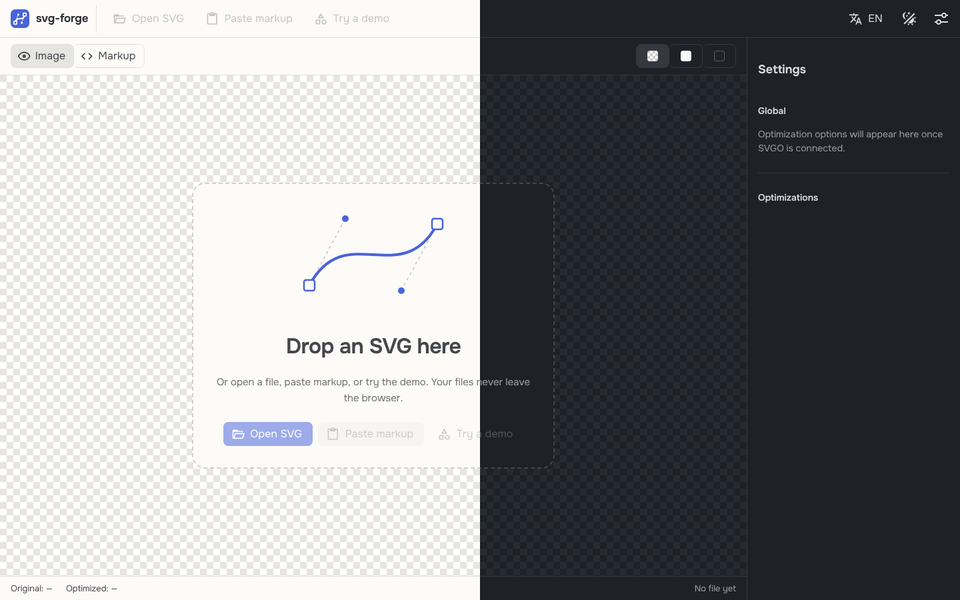
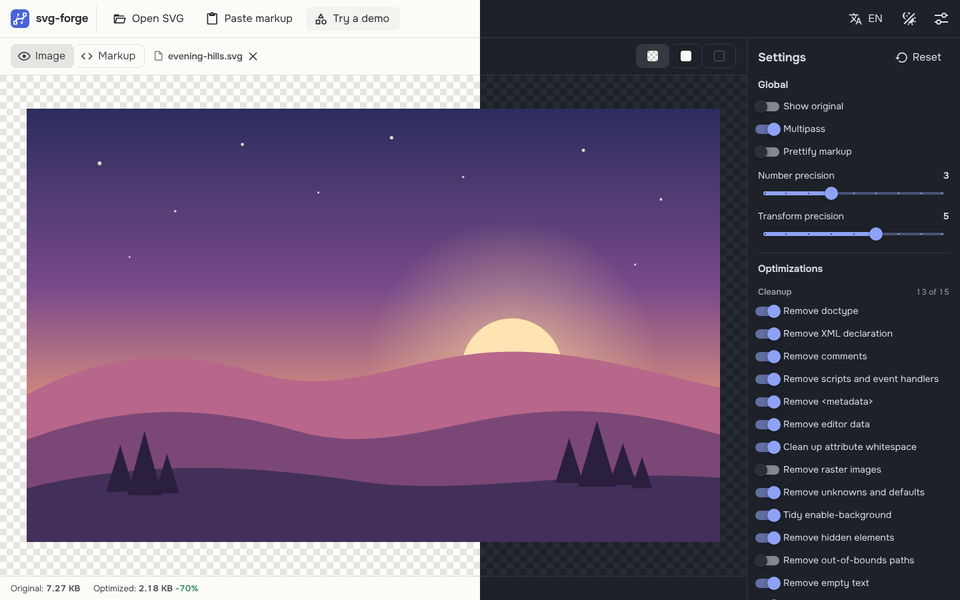
docs: describe the optimizer in the README
- list optimizer features, add SVGO and Comlink to the stack
- describe the new optimizer/ folder
- mark roadmap step 2 as done
- new overview screenshot with the demo and the settings panel

diff --git a/README.md b/README.md
@@ -8,12 +8,17 @@ Inspired by Jake Archibald's [SVGOMG](https://github.com/jakearchibald/svgomg), 
 
 ![svg-forge in light and dark themes](docs/screenshots/overview.png)
 
-> Work in progress. SVG files can already be opened, pasted or dropped and previewed; the optimizer is being wired up next. See the [roadmap](#roadmap).
+> Work in progress. Opening and optimizing SVG works; download, copy and syntax highlighting come next. See the [roadmap](#roadmap).
 
 ## Features
 
 **Ready**
 
+- SVGO 4 runs in a Web Worker, so the interface never freezes; the result updates live as options change
+- Global options (multipass, number and transform precision, prettify) and switches for 47 SVGO plugins in five groups, saved between visits
+- Optimized size and the size change right in the status bar
+- "Show original" to compare with the source
+- Scripts and event handlers are removed from the output by default
 - Open an SVG from disk (also Ctrl+O), paste markup in a dialog or with Ctrl+V anywhere, or drag and drop a file onto the window
 - Demo file to try the app without your own SVG
 - Inline SVG copied from HTML works: missing `xmlns` and `xmlns:xlink` are added automatically
@@ -27,7 +32,7 @@ Inspired by Jake Archibald's [SVGOMG](https://github.com/jakearchibald/svgomg), 
 
 **Planned**
 
-- All SVGO options with live preview and size statistics (raw and gzip)
+- Gzip size statistics, download and copy
 - Markup view with syntax highlighting
 - Before / after comparison slider
 - Export as a Vue component, data URI or CSS background
@@ -56,6 +61,7 @@ SVG files can contain scripts and event handlers. svg-forge never injects user S
 | i18n      | vue-i18n, connected to Vuetify through its adapter    |
 | Fonts     | Onest and JetBrains Mono, self-hosted via Fontsource  |
 | Quality   | ESLint (flat config), Prettier, vue-tsc               |
+| Optimizer | SVGO 4 in a Web Worker, Comlink                       |
 | Hosting   | Vercel                                                |
 
 ## Getting started
@@ -83,8 +89,9 @@ src/
   components/    UI components (header, preview stage, settings panel…)
   composables/   loading SVG (file, paste, drop, demo), errors, theme and language sync
   i18n/          vue-i18n setup and EN/RU messages
+  optimizer/     SVGO worker, worker client, plugin catalog, settings to SVGO config
   plugins/       Vuetify setup
-  stores/        Pinia: current document, notifications, persisted settings, UI state
+  stores/        Pinia: current document, optimizer, notifications, settings, UI state
   utils/         SVG validation and normalization, byte formatting
   theme/         light and dark palettes
   icons.ts       every icon the app uses, in one place
@@ -93,7 +100,7 @@ src/
 ## Roadmap
 
 1. ~~Load SVG: open file, paste markup, drag and drop, demo file~~ ✓
-2. SVGO in a Web Worker, global options and plugin toggles
+2. ~~SVGO in a Web Worker, global options and plugin toggles~~ ✓
 3. Markup view (CodeMirror), size statistics, download and copy
 4. Comparison slider, presets
 5. Export to Vue component, data URI, CSS
